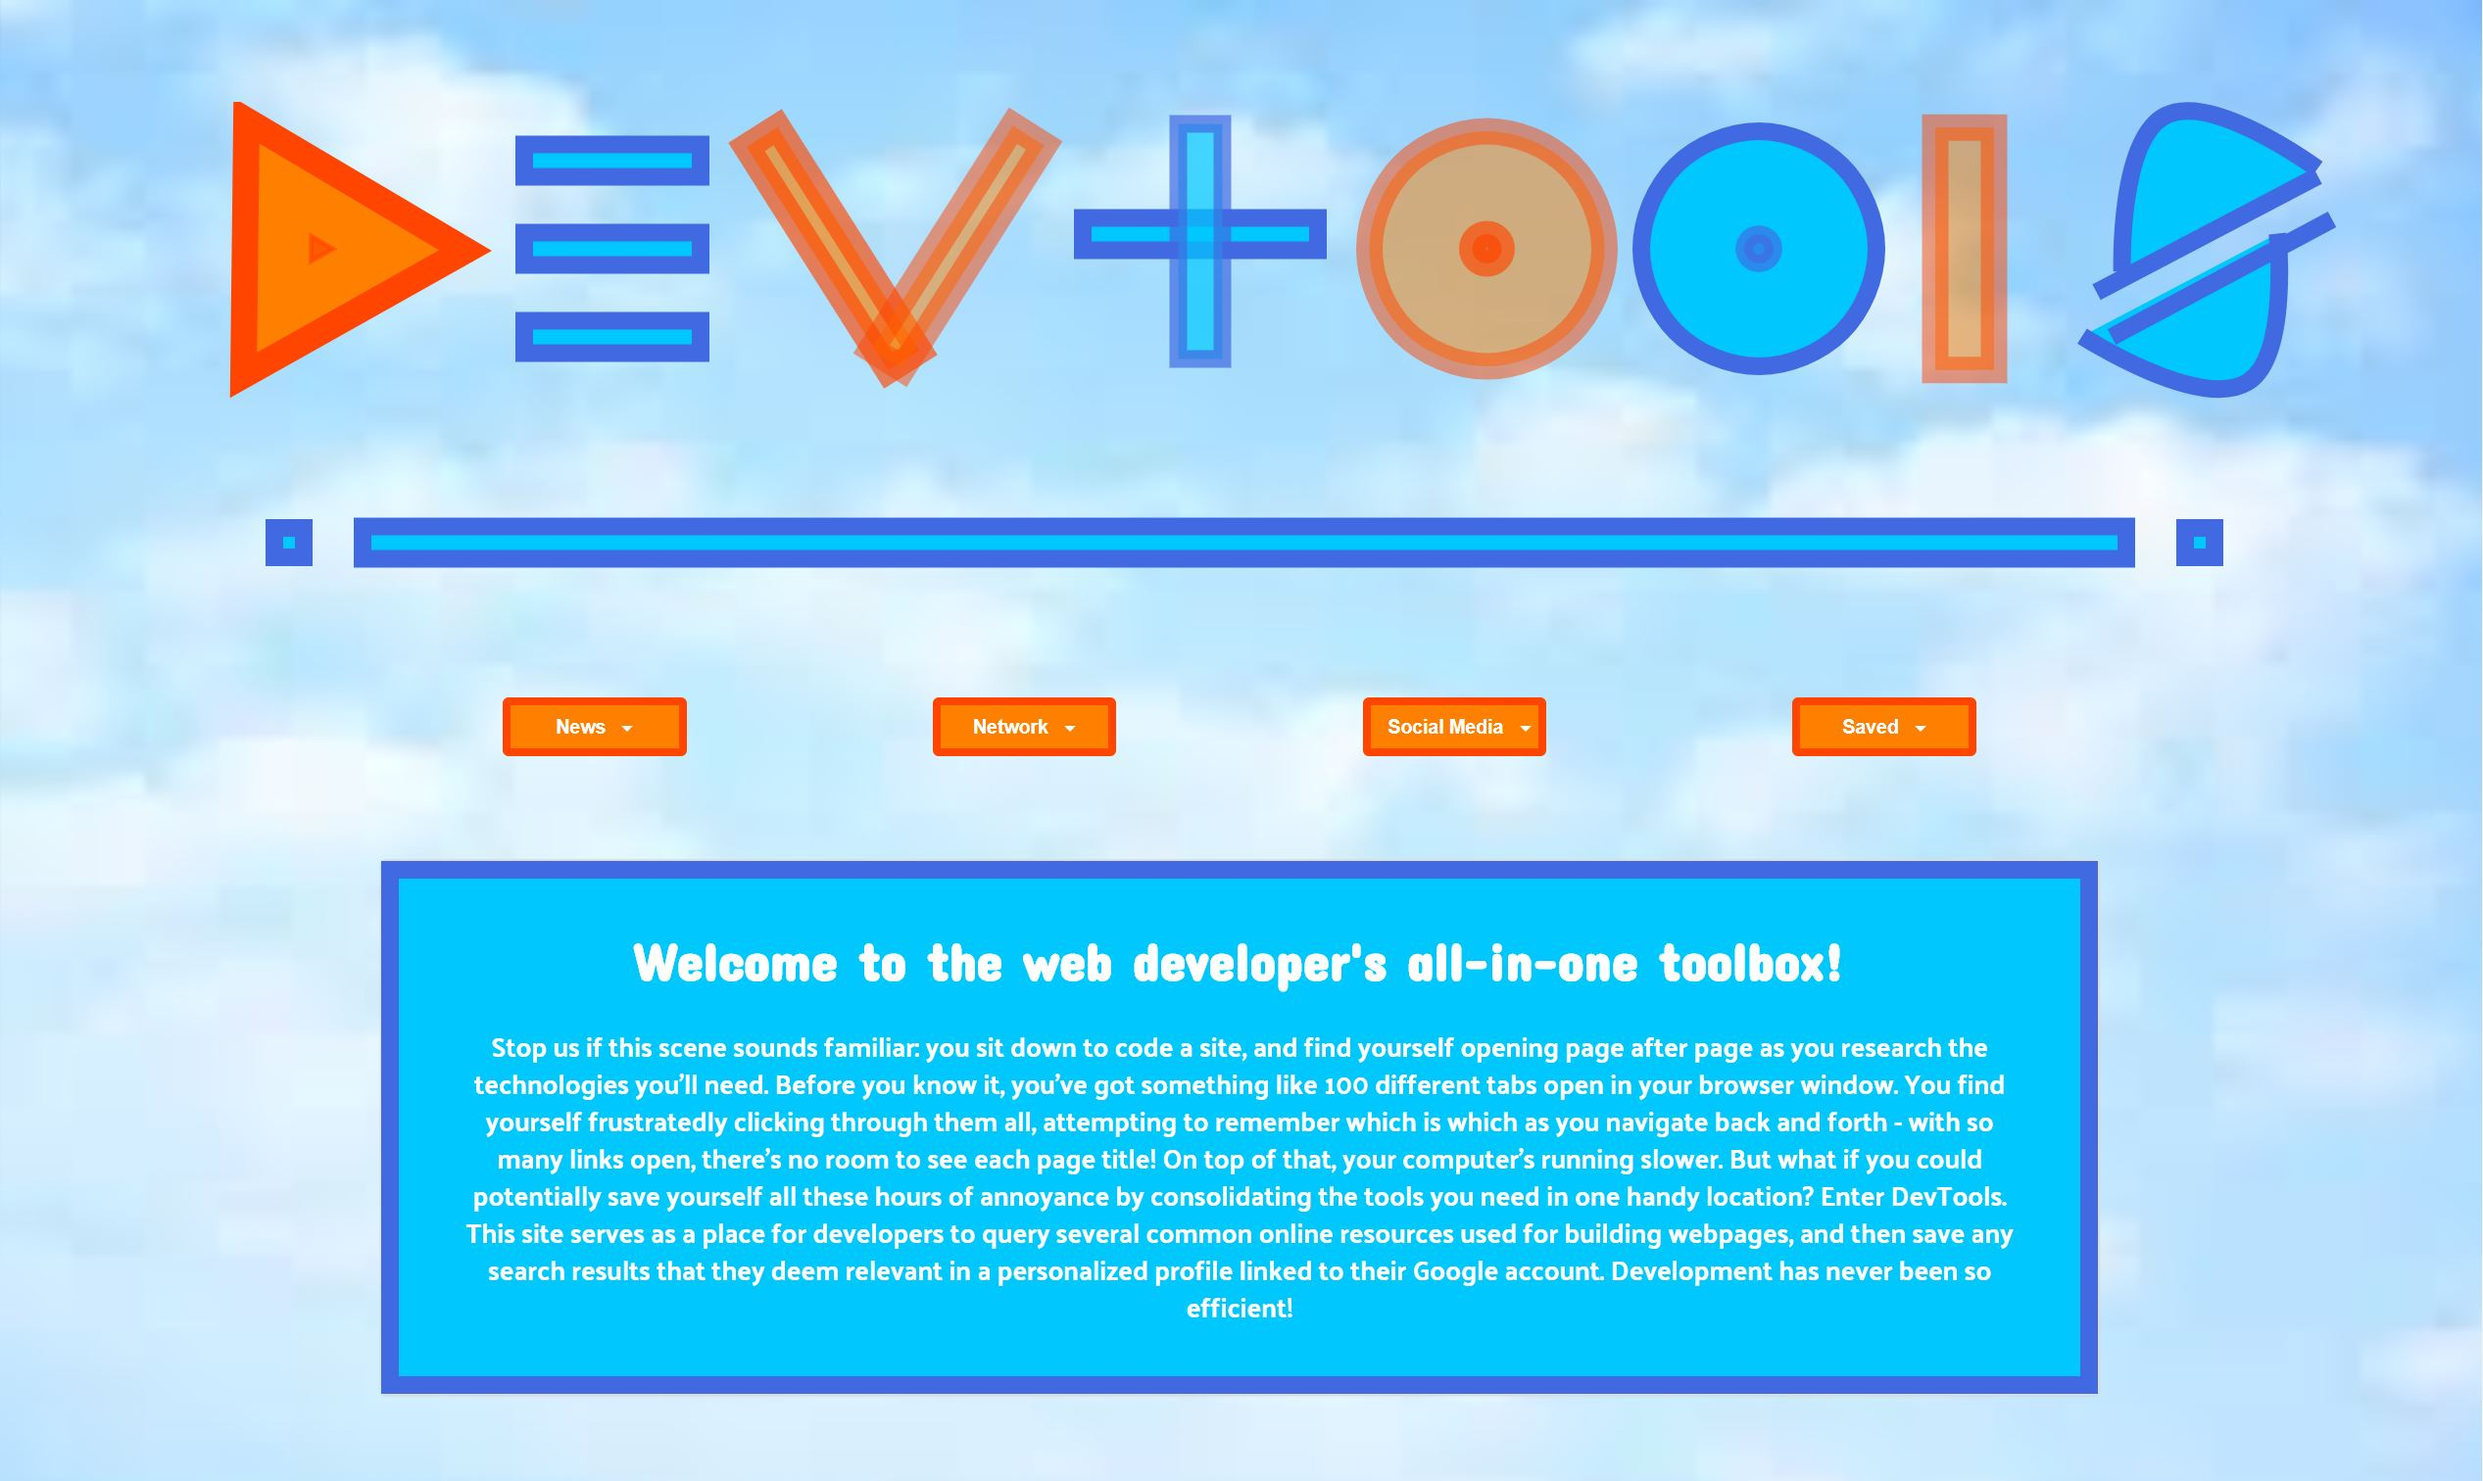
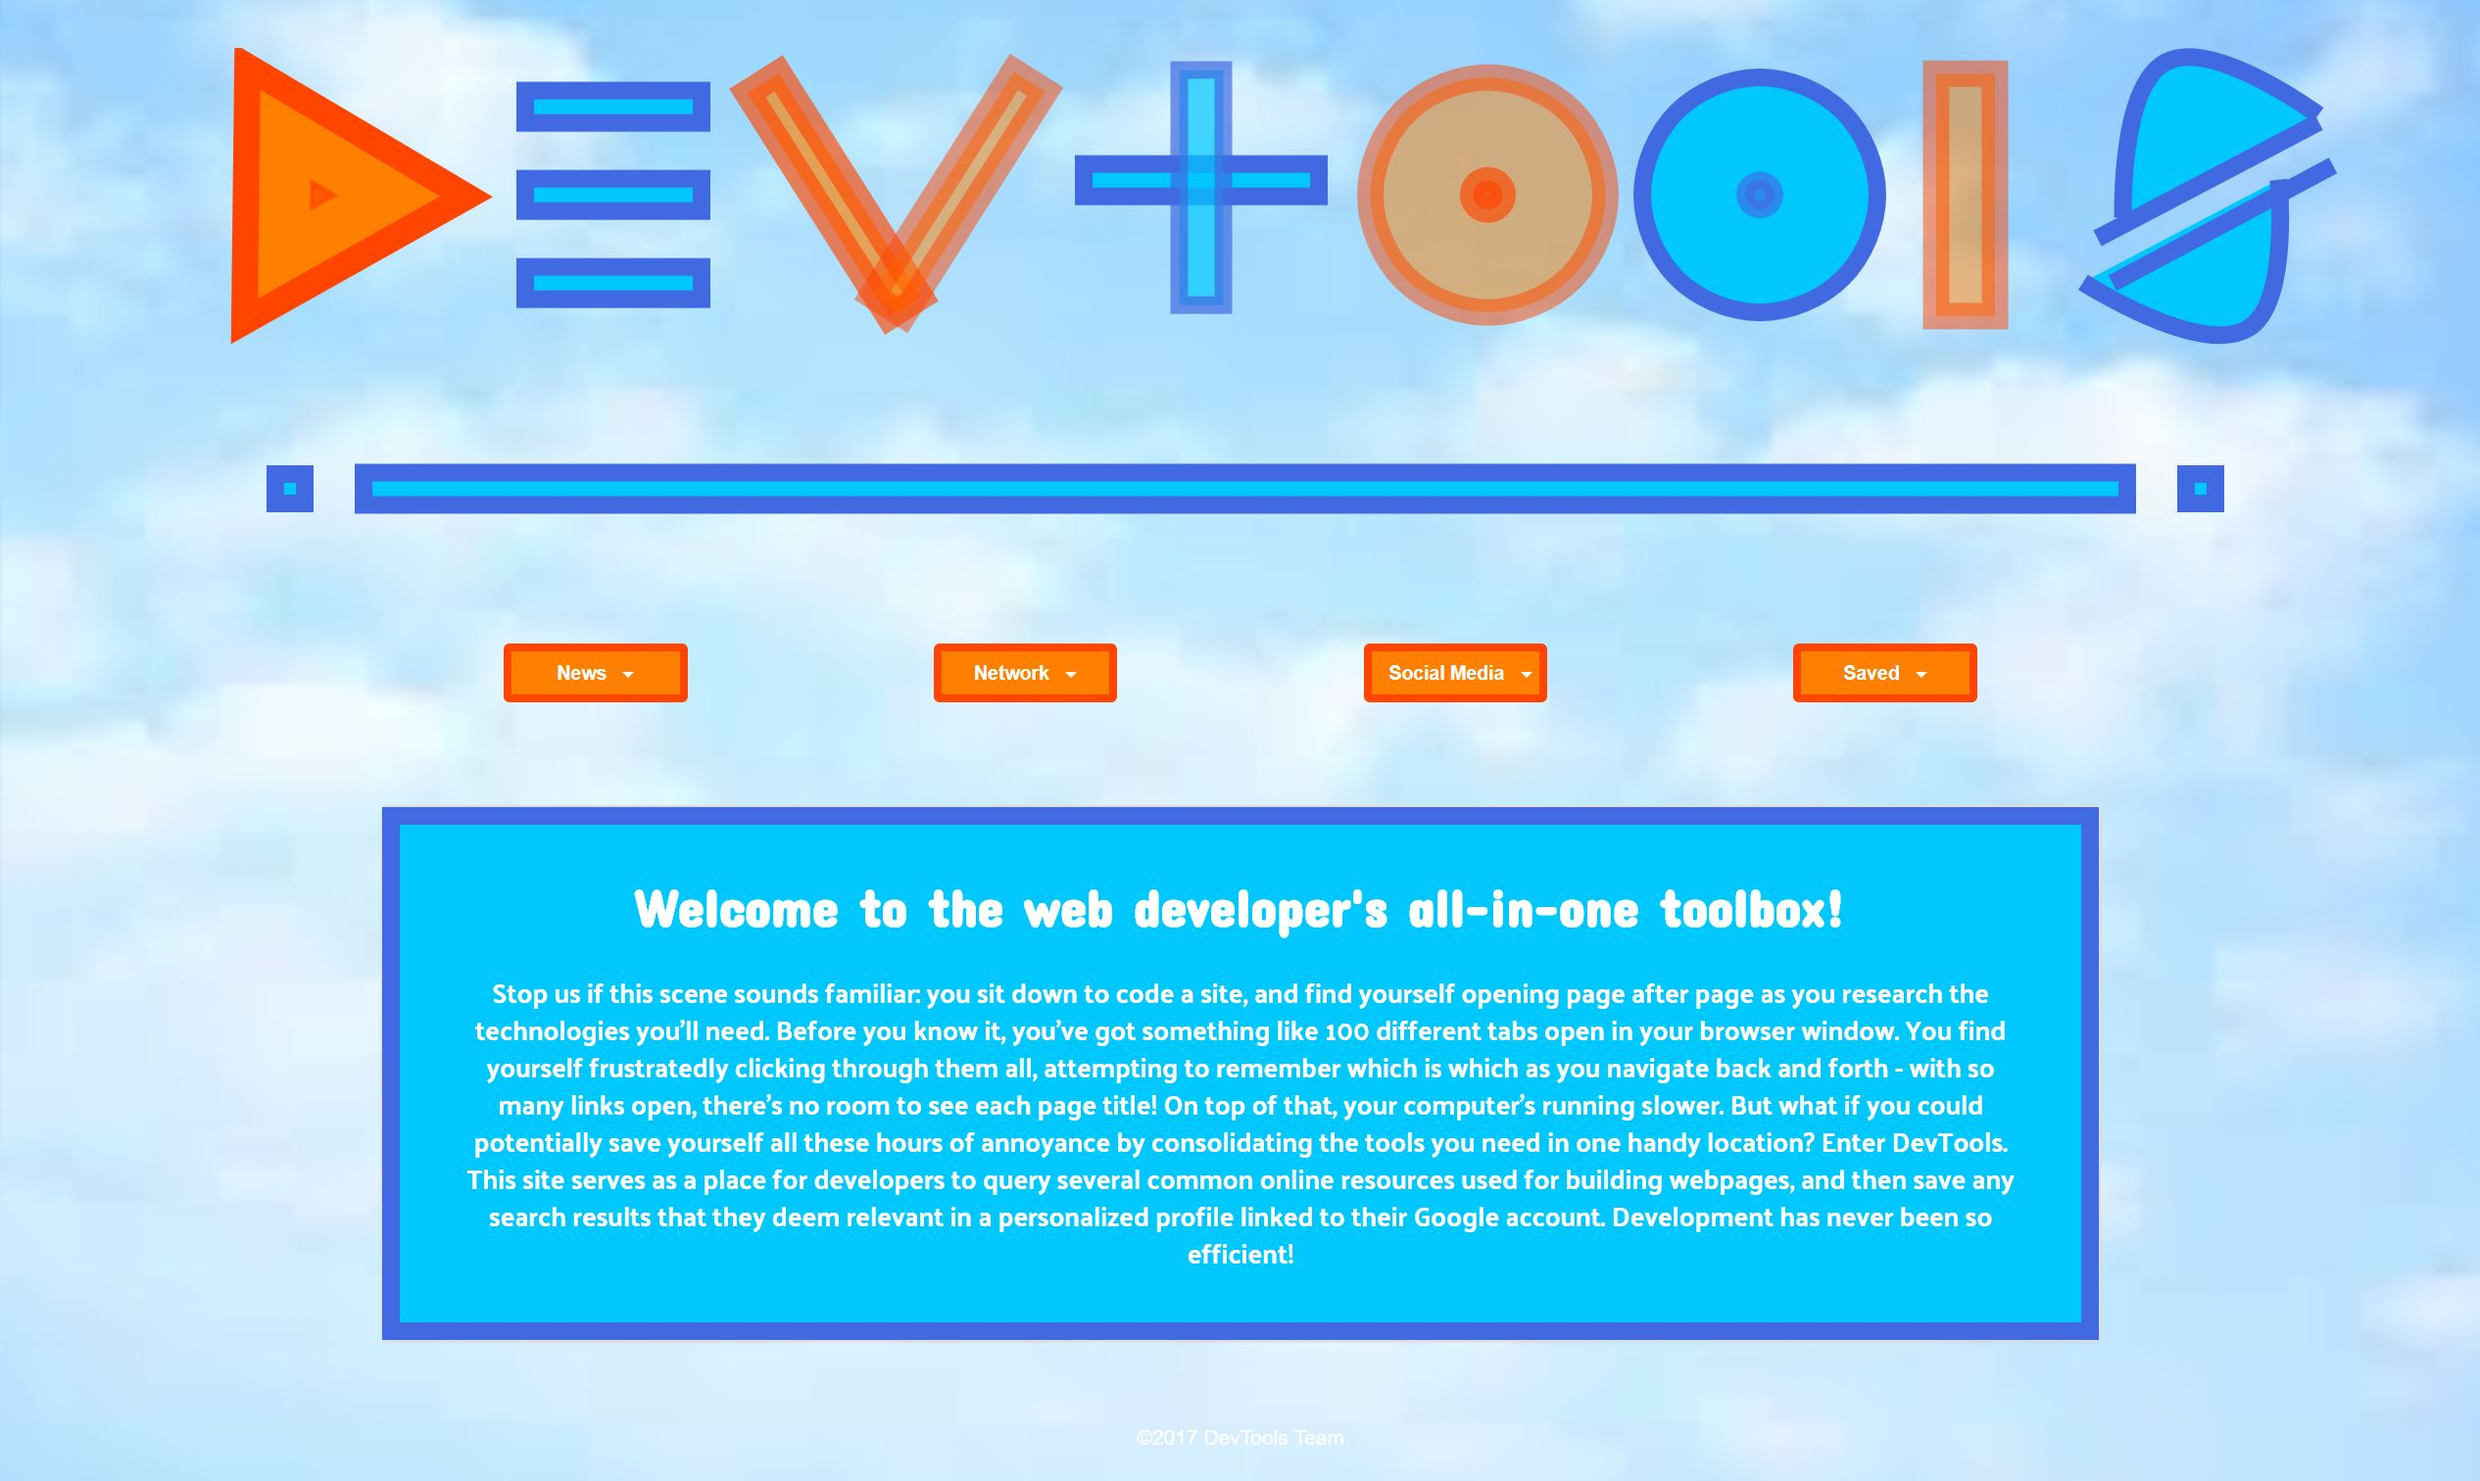
markdown edit

diff --git a/README.md b/README.md
@@ -40,7 +40,7 @@ Plans to test on Safari upcoming.
 
 ### Screen Compatibility Tests
 
-When loaded properly (on a device other than a phone, as the button layout has been modified slightly for mobile), the homepage should look like this:
+When loaded properly (on a device other than a phone, as the button layout has been modified slightly for mobile), the homepage should look like this (note: the margins may appear slightly uneven due to photo cropping):
 
 ![Homepage](/assets/images/devtools.JPG)
 
